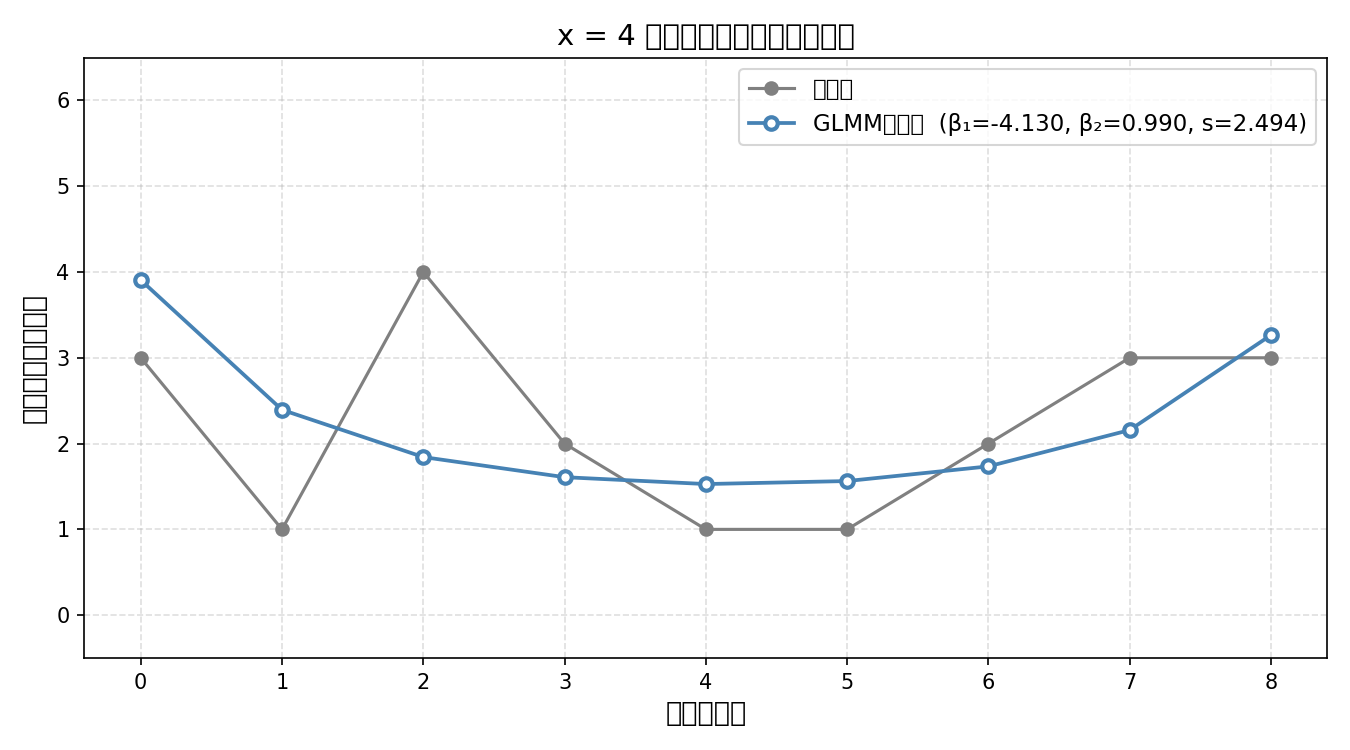
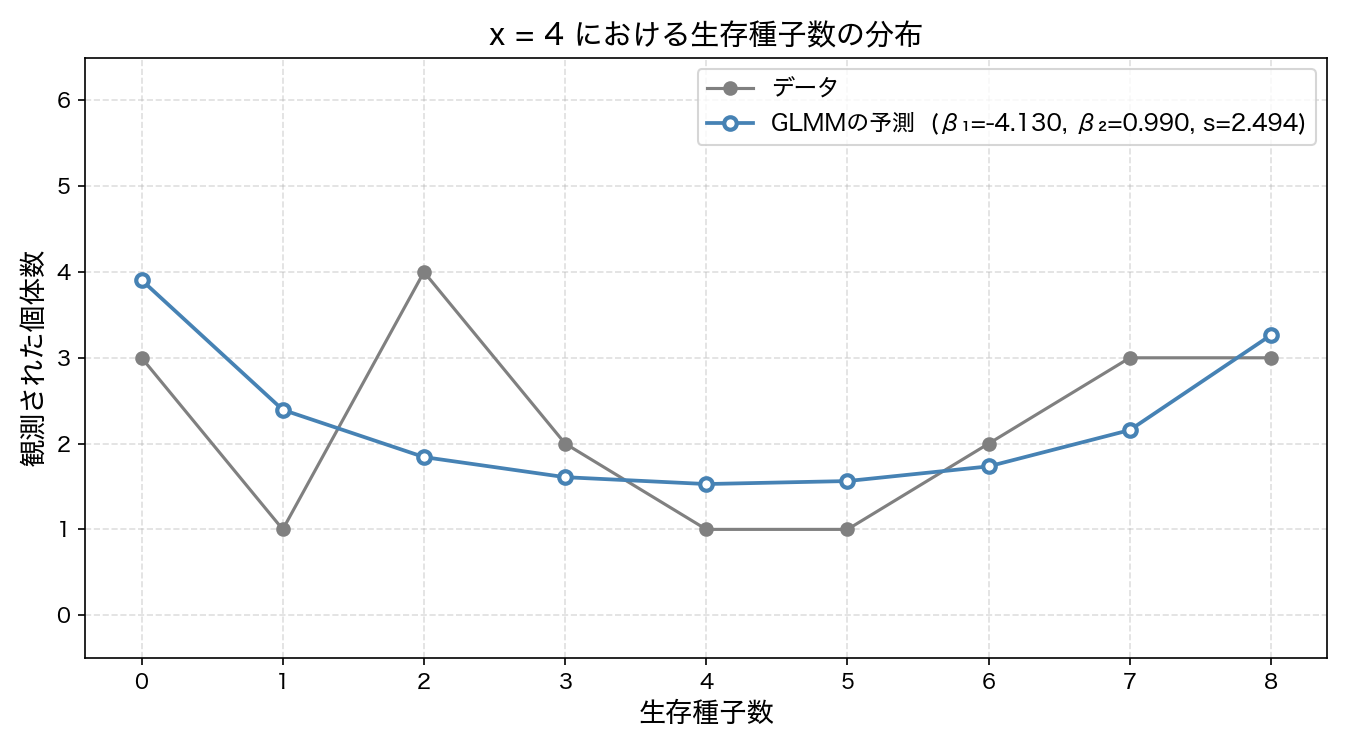
日本語修正

diff --git a/r_exe.py b/r_exe.py
@@ -5,6 +5,11 @@ import numpy as np
 import matplotlib.pyplot as plt
 from scipy import integrate
 import scipy.special
+import matplotlib.pyplot as plt
+import matplotlib.font_manager as fm
+
+# macOSのヒラギノフォントを使う
+plt.rcParams['font.family'] = 'Hiragino Sans'
 
 # ======================
 # 1. RスクリプトでGLMM推定